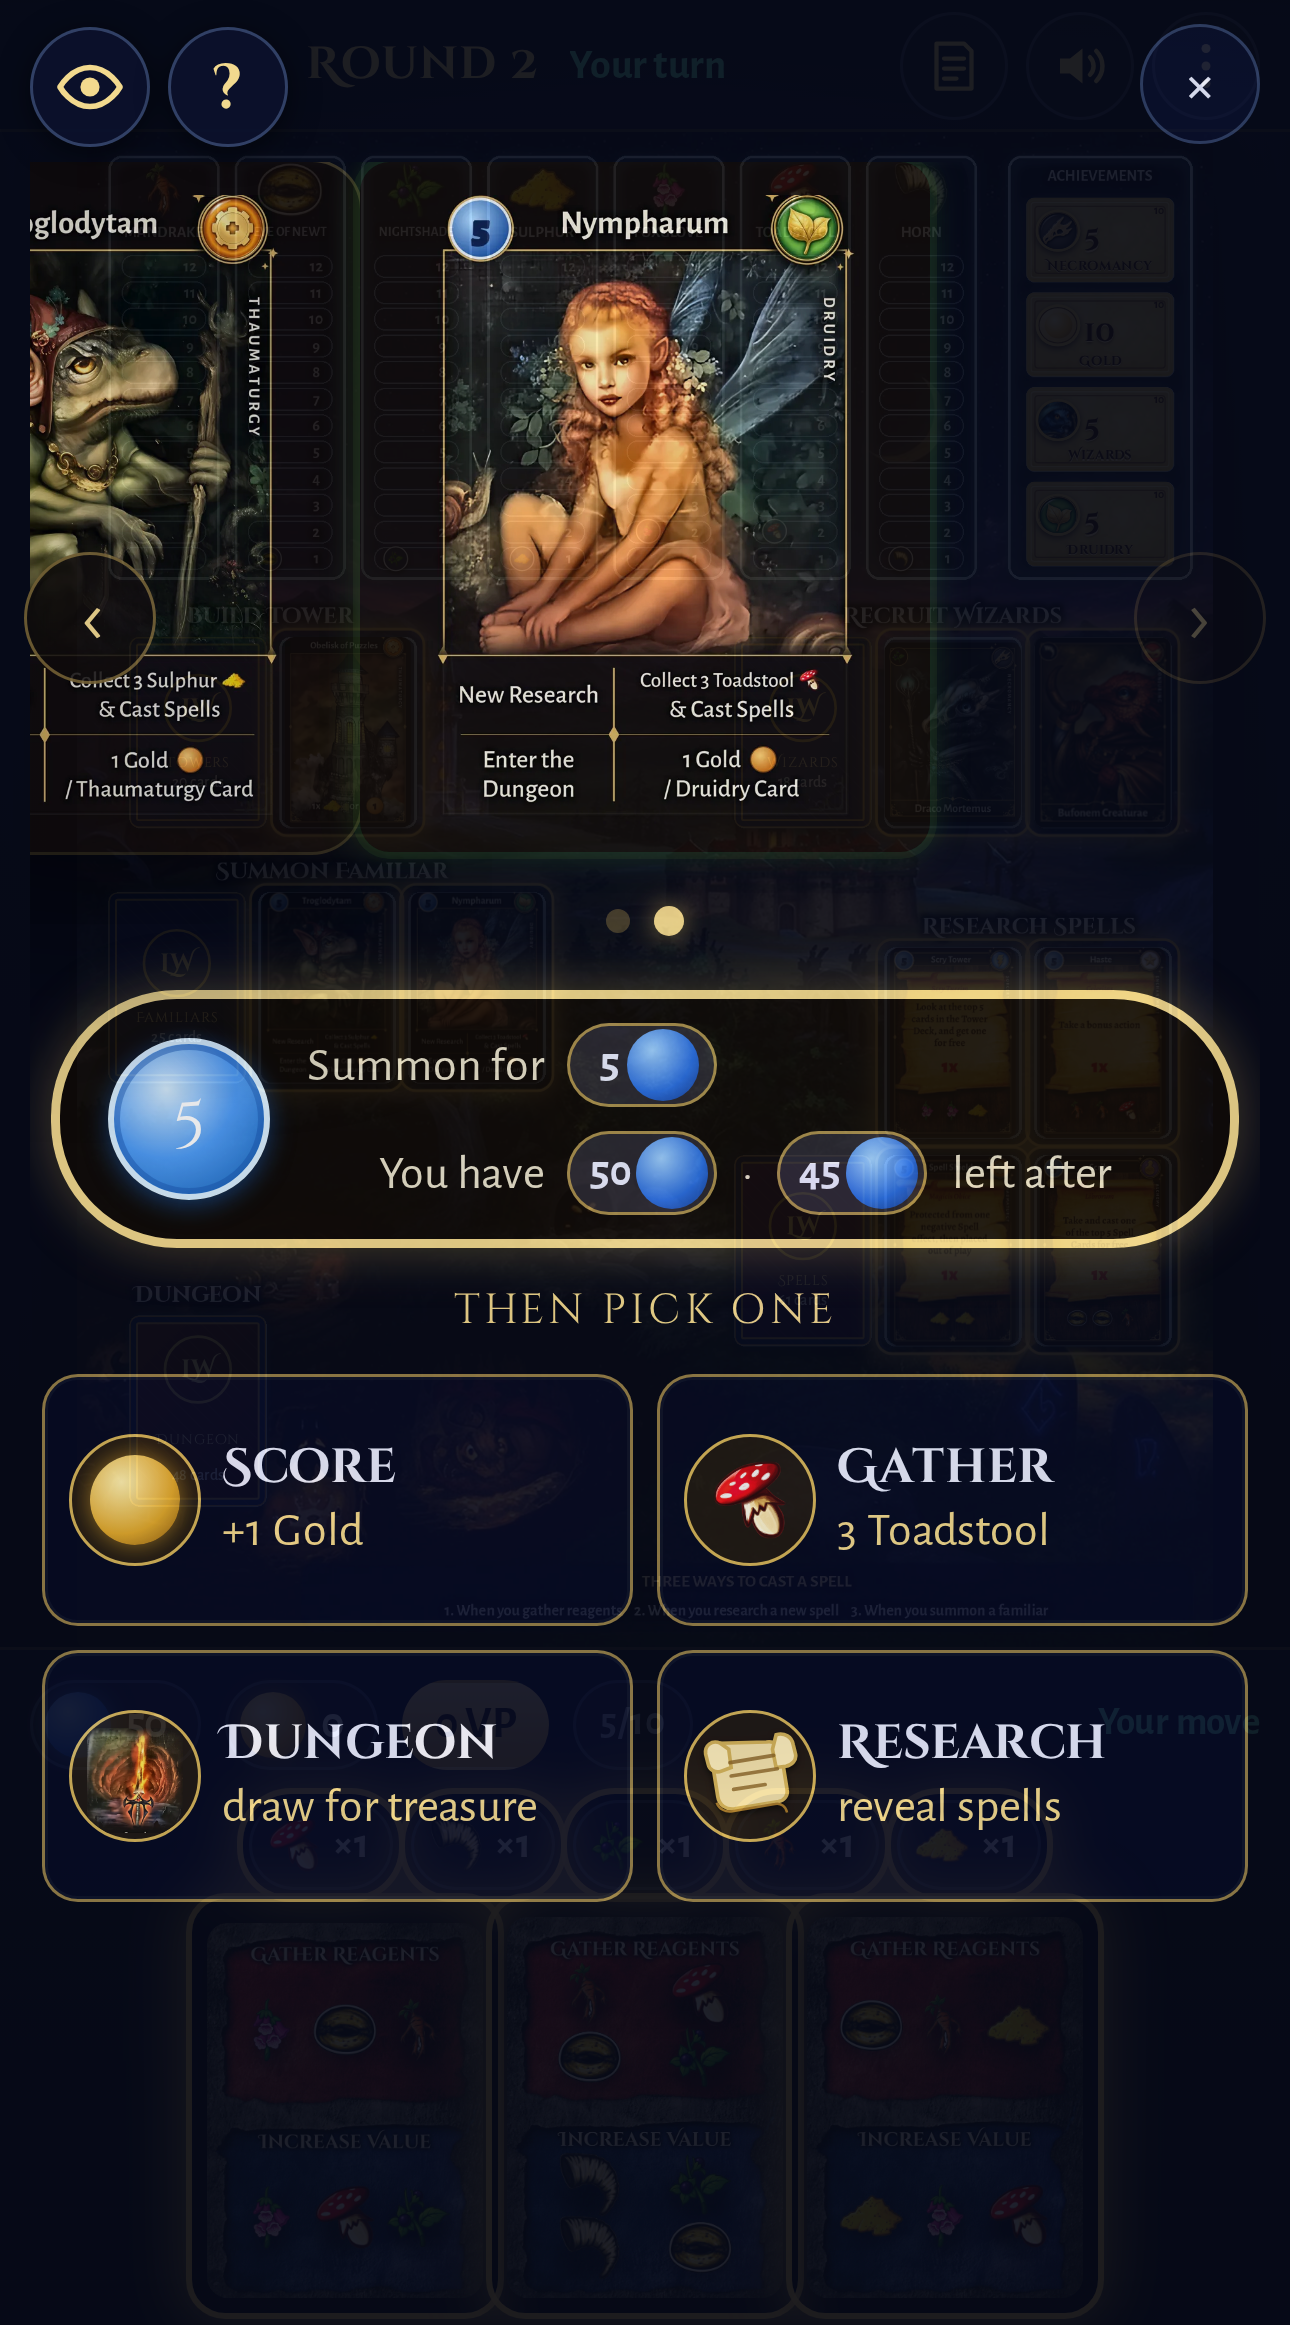
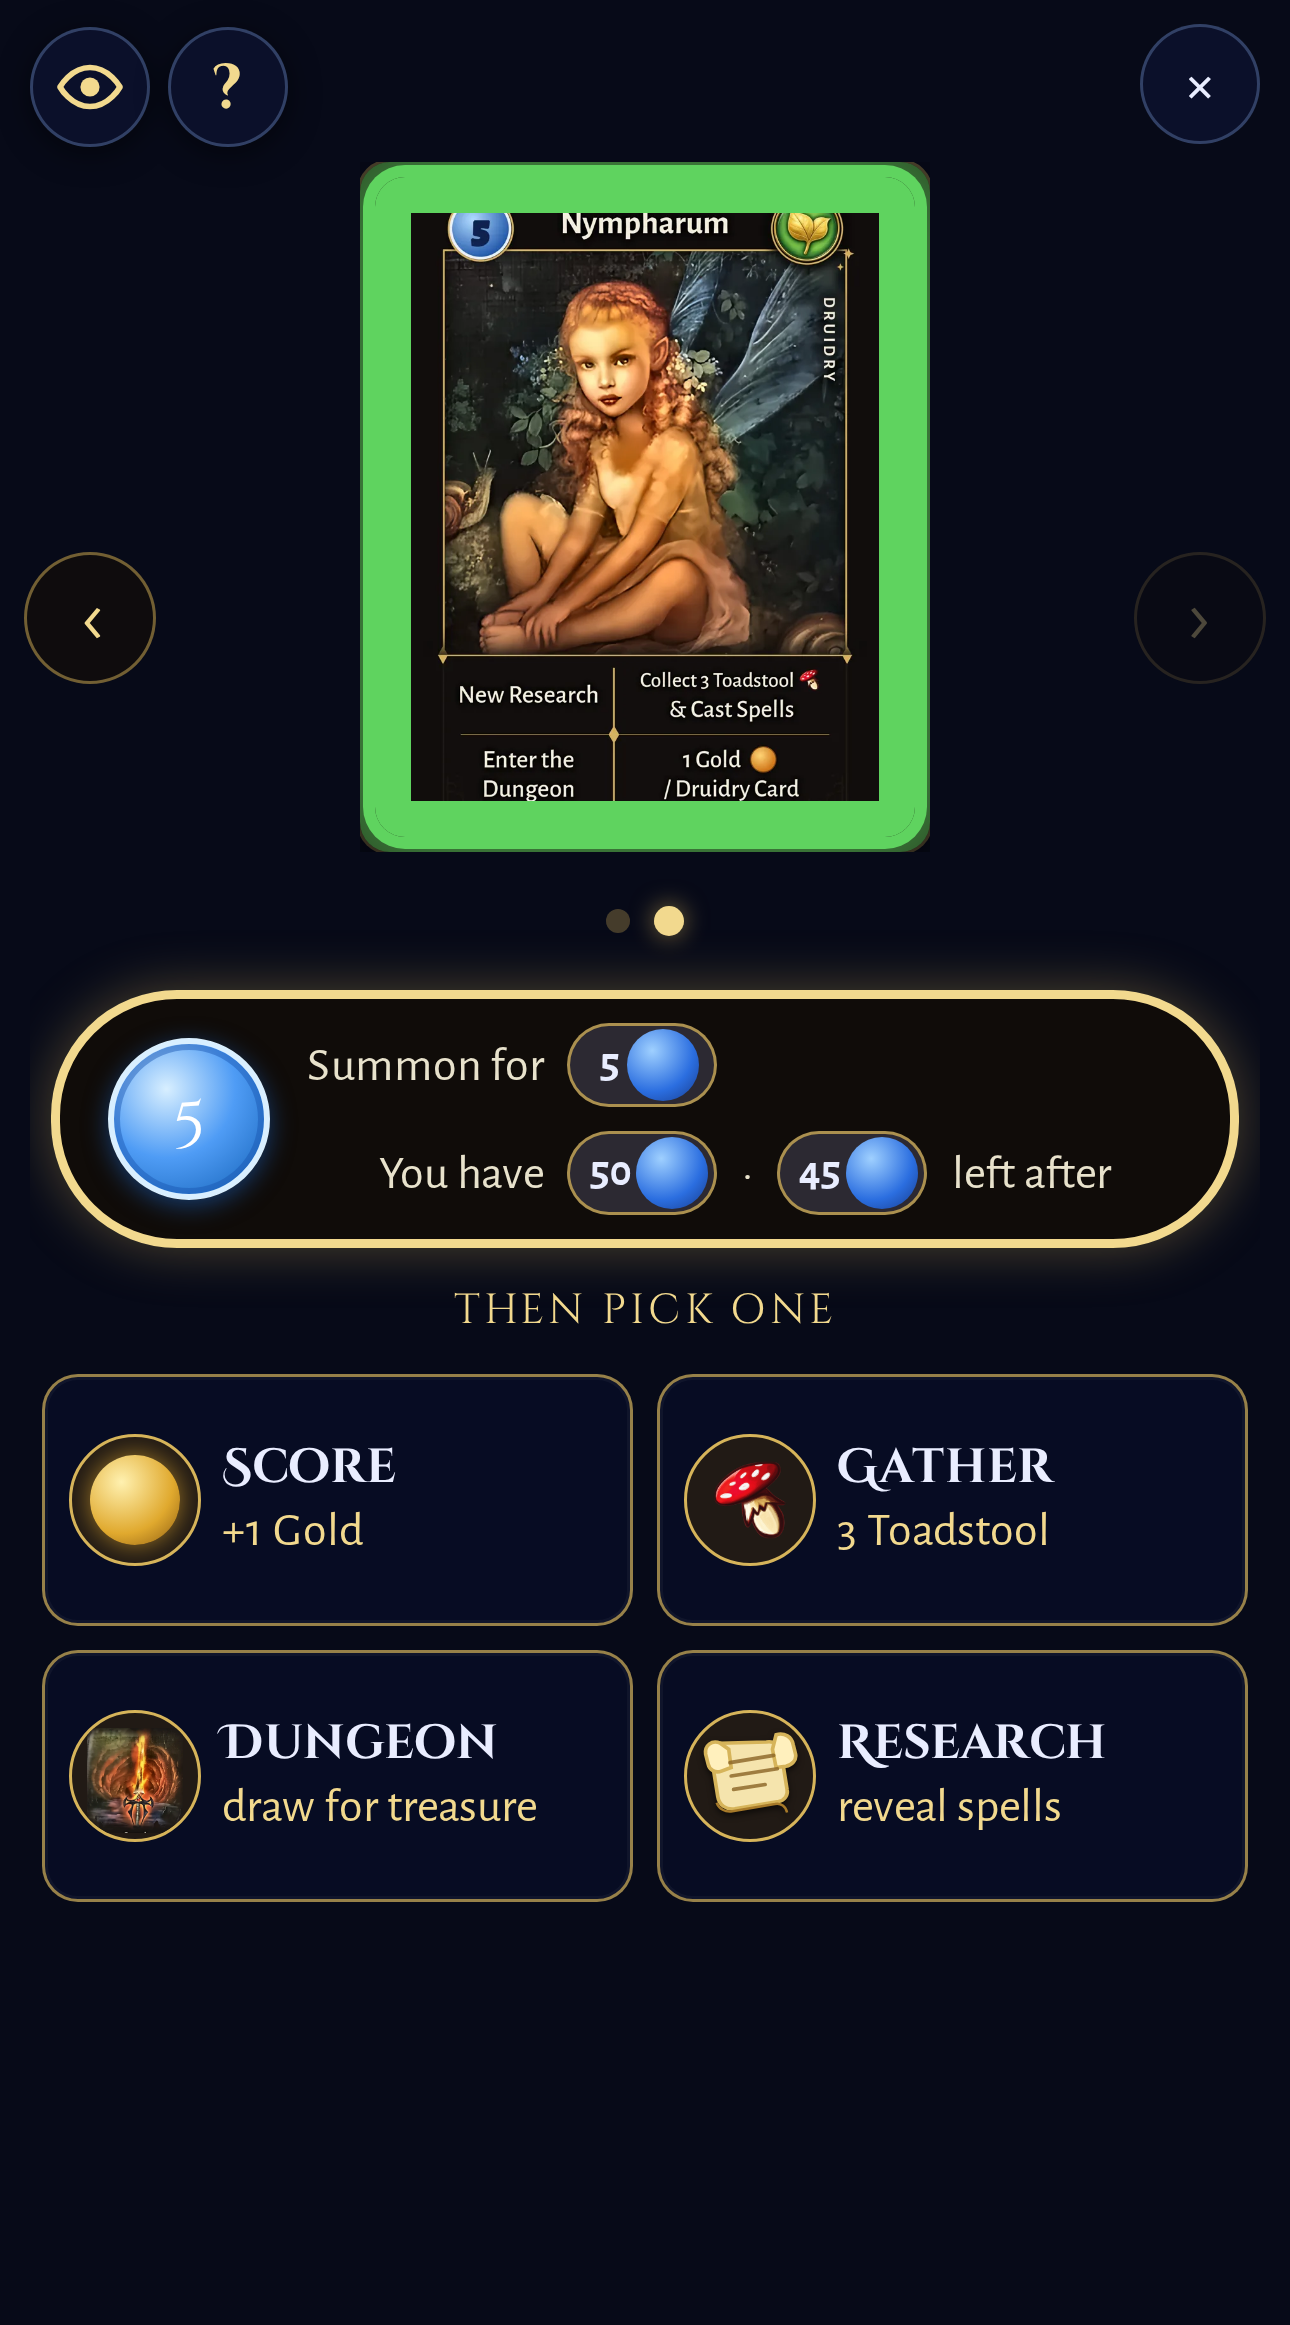
Harden summon pulse glow and clip neighbor frames (#167)
Keep card-track overflow clipped; hide neighbor frames during pulse; draw
a bright 12px inset school ring via ::after. Brighten school colors
(Thaumaturgy #ffd23f, Druidry #5fd35f). Wait for opaque overlay and
freeze peak for screenshots; assert no neighbor peek in track bounds.

Changed region(s): [[0.0, 0.0619, 0.7442, 0.3716], [0.031, 0.4026, 0.3101, 0.4955], [0.031, 0.3097, 0.062, 0.3406]]

diff --git a/app/css/app.css b/app/css/app.css
@@ -807,31 +807,53 @@ input[type=range].slider::-moz-range-thumb { width: 28px; height: 28px; border-r
 .familiar-action-copy { min-width: 0; display: flex; flex-direction: column; justify-content: center; gap: 4px; }
 .familiar-action-note { color: var(--muted); font-size: 10px; line-height: 1.1; margin-top: 2px; white-space: nowrap; }
 .summon-pulse-pending { visibility: hidden; pointer-events: none; }
-.big-frame.summon-pulse { border-radius: 10px; position: relative; z-index: 1; overflow: visible; animation: summon-pulse-ring .6s ease-out 1 both; }
-.expand.summon-pulse-stage .card-track { overflow: visible; }
-.big-frame.summon-pulse.summon-pulse-sorcery { --summon-pulse-color: rgba(113, 164, 229, .95); --summon-pulse-outer: rgba(55, 130, 210, .55); }
-.big-frame.summon-pulse.summon-pulse-alchemy { --summon-pulse-color: rgba(254, 210, 104, .95); --summon-pulse-outer: rgba(200, 150, 60, .5); }
-.big-frame.summon-pulse.summon-pulse-conjuring { --summon-pulse-color: rgba(255, 122, 63, .95); --summon-pulse-outer: rgba(200, 80, 40, .5); }
-.big-frame.summon-pulse.summon-pulse-druidry { --summon-pulse-color: rgba(66, 122, 44, .95); --summon-pulse-outer: rgba(90, 160, 70, .55); }
-.big-frame.summon-pulse.summon-pulse-enchantment { --summon-pulse-color: rgba(235, 182, 100, .95); --summon-pulse-outer: rgba(190, 130, 70, .5); }
-.big-frame.summon-pulse.summon-pulse-necromancy { --summon-pulse-color: rgba(49, 103, 178, .95); --summon-pulse-outer: rgba(90, 140, 200, .55); }
-.big-frame.summon-pulse.summon-pulse-thaumaturgy { --summon-pulse-color: rgba(251, 158, 19, .95); --summon-pulse-outer: rgba(220, 120, 30, .55); }
-@keyframes summon-pulse-ring {
-  0% { box-shadow: 0 0 0 0 transparent; filter: none; }
-  50% { box-shadow: 0 0 0 16px var(--summon-pulse-color), 0 0 70px 36px var(--summon-pulse-outer, var(--summon-pulse-color)); filter: drop-shadow(0 0 28px var(--summon-pulse-color)); }
-  100% { box-shadow: 0 0 0 0 transparent; filter: none; }
+.expand.summon-pulse-stage .card-track .big-frame:not(.summon-pulse) { visibility: hidden; pointer-events: none; }
+.big-frame.summon-pulse { border-radius: 10px; position: relative; z-index: 1; overflow: hidden; }
+.big-frame.summon-pulse::after {
+  content: '';
+  position: absolute;
+  inset: 5px;
+  border-radius: 10px;
+  pointer-events: none;
+  z-index: 3;
+  animation: summon-pulse-glow .6s ease-out 1 both;
+}
+.big-frame.summon-pulse.summon-pulse-freeze::after {
+  animation: none;
+  opacity: 1;
+  box-shadow:
+    inset 0 0 0 12px var(--summon-pulse-color),
+    0 0 0 4px var(--summon-pulse-color),
+    0 0 42px 22px var(--summon-pulse-outer, var(--summon-pulse-color));
+}
+.big-frame.summon-pulse.summon-pulse-sorcery { --summon-pulse-color: rgb(94, 176, 255); --summon-pulse-outer: rgba(94, 176, 255, .65); }
+.big-frame.summon-pulse.summon-pulse-alchemy { --summon-pulse-color: rgb(255, 192, 74); --summon-pulse-outer: rgba(255, 192, 74, .6); }
+.big-frame.summon-pulse.summon-pulse-conjuring { --summon-pulse-color: rgb(255, 107, 74); --summon-pulse-outer: rgba(255, 107, 74, .6); }
+.big-frame.summon-pulse.summon-pulse-druidry { --summon-pulse-color: rgb(95, 211, 95); --summon-pulse-outer: rgba(95, 211, 95, .65); }
+.big-frame.summon-pulse.summon-pulse-enchantment { --summon-pulse-color: rgb(255, 143, 216); --summon-pulse-outer: rgba(255, 143, 216, .6); }
+.big-frame.summon-pulse.summon-pulse-necromancy { --summon-pulse-color: rgb(143, 188, 255); --summon-pulse-outer: rgba(143, 188, 255, .65); }
+.big-frame.summon-pulse.summon-pulse-thaumaturgy { --summon-pulse-color: rgb(255, 210, 63); --summon-pulse-outer: rgba(255, 226, 80, .88); }
+@keyframes summon-pulse-glow {
+  0%, 100% { opacity: 0; box-shadow: none; }
+  50% {
+    opacity: 1;
+    box-shadow:
+      inset 0 0 0 12px var(--summon-pulse-color),
+      0 0 0 4px var(--summon-pulse-color),
+      0 0 42px 22px var(--summon-pulse-outer, var(--summon-pulse-color));
+  }
 }
 .mcard.score-school-blink { animation: score-school-blink .4s ease-out 1 both; border-radius: 6px; position: relative; z-index: 2; }
-.mcard.score-school-blink.score-school-sorcery { --score-blink-color: rgba(113, 164, 229, .92); }
-.mcard.score-school-blink.score-school-alchemy { --score-blink-color: rgba(254, 210, 104, .92); }
-.mcard.score-school-blink.score-school-conjuring { --score-blink-color: rgba(255, 122, 63, .92); }
-.mcard.score-school-blink.score-school-druidry { --score-blink-color: rgba(66, 122, 44, .92); }
-.mcard.score-school-blink.score-school-enchantment { --score-blink-color: rgba(235, 182, 100, .92); }
-.mcard.score-school-blink.score-school-necromancy { --score-blink-color: rgba(49, 103, 178, .92); }
-.mcard.score-school-blink.score-school-thaumaturgy { --score-blink-color: rgba(251, 158, 19, .92); }
+.mcard.score-school-blink.score-school-sorcery { --score-blink-color: rgb(94, 176, 255); }
+.mcard.score-school-blink.score-school-alchemy { --score-blink-color: rgb(255, 192, 74); }
+.mcard.score-school-blink.score-school-conjuring { --score-blink-color: rgb(255, 107, 74); }
+.mcard.score-school-blink.score-school-druidry { --score-blink-color: rgb(95, 211, 95); }
+.mcard.score-school-blink.score-school-enchantment { --score-blink-color: rgb(255, 143, 216); }
+.mcard.score-school-blink.score-school-necromancy { --score-blink-color: rgb(143, 188, 255); }
+.mcard.score-school-blink.score-school-thaumaturgy { --score-blink-color: rgb(255, 210, 63); }
 @keyframes score-school-blink {
   0%, 100% { box-shadow: none; outline: none; }
-  50% { box-shadow: 0 0 0 5px var(--score-blink-color), 0 0 22px 10px var(--score-blink-color); outline: 2px solid var(--score-blink-color); outline-offset: 2px; }
+  50% { box-shadow: 0 0 0 8px var(--score-blink-color), 0 0 24px 12px var(--score-blink-color); outline: 2px solid var(--score-blink-color); outline-offset: 2px; }
 }
 .mat.you.score-gold-float-host { position: relative; overflow: visible; z-index: 2; }
 #dock.score-gold-float-host { position: relative; }

diff --git a/tests/e2e/summon-score-feedback.spec.js b/tests/e2e/summon-score-feedback.spec.js
@@ -41,13 +41,43 @@ async function seedSummon(page, next = 'Keith') {
   }, next);
 }
 
-async function pausePulsePeak(page) {
-  await page.evaluate(() => {
-    const frame = document.querySelector('.big-frame.summon-pulse');
-    if (frame) {
-      frame.style.animationDuration = '8s';
-      frame.style.animationDelay = '-0.3s';
+async function waitSummonOverlayReady(page) {
+  await expect.poll(async () => page.evaluate(() => {
+    const ov = document.querySelector('[data-testid="summon-use"]');
+    if (!ov || ov.classList.contains('out')) return false;
+    return parseFloat(getComputedStyle(ov).opacity) >= 0.99;
+  }), { timeout: 3000 }).toBe(true);
+  await page.waitForTimeout(280);
+}
+
+async function assertNoNeighborInTrack(page) {
+  const peek = await page.evaluate(() => {
+    const track = document.querySelector('.card-track');
+    const pulse = document.querySelector('.big-frame.summon-pulse');
+    if (!track || !pulse) return { ok: false, reason: 'missing pulse or track' };
+    const trackRect = track.getBoundingClientRect();
+    const current = pulse.dataset.index;
+    const breaches = [];
+    for (const f of track.querySelectorAll('.big-frame')) {
+      if (f.dataset.index === current) continue;
+      const r = f.getBoundingClientRect();
+      const ix = Math.min(r.right, trackRect.right) - Math.max(r.left, trackRect.left);
+      const iy = Math.min(r.bottom, trackRect.bottom) - Math.max(r.top, trackRect.top);
+      if (ix > 1 && iy > 1) breaches.push({ index: f.dataset.index, ix, iy, vis: getComputedStyle(f).visibility });
     }
+    return { ok: breaches.length === 0, breaches };
+  });
+  expect(peek.ok, JSON.stringify(peek)).toBe(true);
+}
+
+async function pausePulsePeak(page) {
+  await waitSummonOverlayReady(page);
+  await page.addStyleTag({ content: `
+    [data-testid="summon-use"] { opacity: 1 !important; animation: none !important; }
+  ` });
+  await page.evaluate(() => {
+    document.querySelector('.big-frame.summon-pulse')?.classList.add('summon-pulse-freeze');
+    return new Promise((r) => requestAnimationFrame(() => requestAnimationFrame(r)));
   });
 }
 
@@ -77,8 +107,9 @@ test('Summon pulse: school ring on opened card in two-card market (#167)', async
   const trog = await readPulseFrame(page);
   expect(trog.index).toBe('0');
   expect(trog.slug).toContain('summon-pulse-thaumaturgy');
-  expect(trog.color).toContain('251, 158');
+  expect(trog.color).toContain('255, 210');
   expect(trog.color).not.toContain(LEGACY_DEFAULT_BLUE);
+  await assertNoNeighborInTrack(page);
   await pausePulsePeak(page);
   await page.screenshot({ path: 'docs/screenshots/summon-pulse-thaumaturgy-430x775.png', fullPage: true });
   await page.getByTestId('summon-cancel').click();
@@ -90,9 +121,10 @@ test('Summon pulse: school ring on opened card in two-card market (#167)', async
   const nymph = await readPulseFrame(page);
   expect(nymph.index).toBe('1');
   expect(nymph.slug).toContain('summon-pulse-druidry');
-  expect(nymph.color).toContain('66, 122');
+  expect(nymph.color).toContain('95, 211');
   expect(nymph.color).not.toContain(LEGACY_DEFAULT_BLUE);
   expect(nymph.transform).toMatch(/translateX\(0(%|px)?\)|matrix\(1, 0, 0, 1, 0, 0\)/);
+  await assertNoNeighborInTrack(page);
   await pausePulsePeak(page);
   await page.screenshot({ path: 'docs/screenshots/summon-pulse-druidry-430x775.png', fullPage: true });
 });
@@ -120,13 +152,7 @@ test('Summon familiar: school pulse class then action tiles (#summon-pulse)', as
     slug: document.querySelector('.big-frame.summon-pulse')?.className || '',
   }));
 
-  await page.evaluate(() => {
-    const frame = document.querySelector('.big-frame.summon-pulse');
-    if (frame) {
-      frame.style.animationDuration = '8s';
-      frame.style.animationDelay = '-0.3s';
-    }
-  });
+  await pausePulsePeak(page);
   await page.screenshot({ path: 'docs/screenshots/summon-pulse-430x775.png', fullPage: true });
 
   await expect.poll(async () => {

diff --git a/app/js/school-glow-colors.js b/app/js/school-glow-colors.js
@@ -1,12 +1,12 @@
-/** Glow / blink colors sampled from each school's familiar (or wizard) card frame art. */
+/** Bright school glow colors readable on the dark summon overlay (sampled from card art, tuned for mobile). */
 export const SCHOOL_GLOW = {
-  Sorcery: { hex: '#71a4e5', pulse: [113, 164, 229], outer: [55, 130, 210] },
-  Alchemy: { hex: '#fed268', pulse: [254, 210, 104], outer: [200, 150, 60] },
-  Conjuring: { hex: '#ff7a3f', pulse: [255, 122, 63], outer: [200, 80, 40] },
-  Druidry: { hex: '#427a2c', pulse: [66, 122, 44], outer: [90, 160, 70] },
-  Enchantment: { hex: '#ebb664', pulse: [235, 182, 100], outer: [190, 130, 70] },
-  Necromancy: { hex: '#3167b2', pulse: [49, 103, 178], outer: [90, 140, 200] },
-  Thaumaturgy: { hex: '#fb9e13', pulse: [251, 158, 19], outer: [220, 120, 30] },
+  Sorcery: { hex: '#5eb0ff', pulse: [94, 176, 255], outer: [94, 176, 255] },
+  Alchemy: { hex: '#ffc04a', pulse: [255, 192, 74], outer: [255, 192, 74] },
+  Conjuring: { hex: '#ff6b4a', pulse: [255, 107, 74], outer: [255, 107, 74] },
+  Druidry: { hex: '#5fd35f', pulse: [95, 211, 95], outer: [95, 211, 95] },
+  Enchantment: { hex: '#ff8fd8', pulse: [255, 143, 216], outer: [255, 143, 216] },
+  Necromancy: { hex: '#8fbcff', pulse: [143, 188, 255], outer: [143, 188, 255] },
+  Thaumaturgy: { hex: '#ffd23f', pulse: [255, 210, 63], outer: [255, 210, 63] },
 };
 
 export function schoolGlowTable() {

diff --git a/app/js/action-feedback.js b/app/js/action-feedback.js
@@ -74,7 +74,7 @@ export function runSummonIntroPulse(overlayEl, school, cardIndex) {
     let settled = false;
     const done = () => { if (settled) return; settled = true; finish(); };
     frame.addEventListener('animationend', (e) => {
-      if (e.target === frame && e.animationName === 'summon-pulse-ring') done();
+      if (e.target === frame && e.animationName === 'summon-pulse-glow') done();
     }, { once: true });
     setTimeout(done, SUMMON_PULSE_MS + 80);
   });
